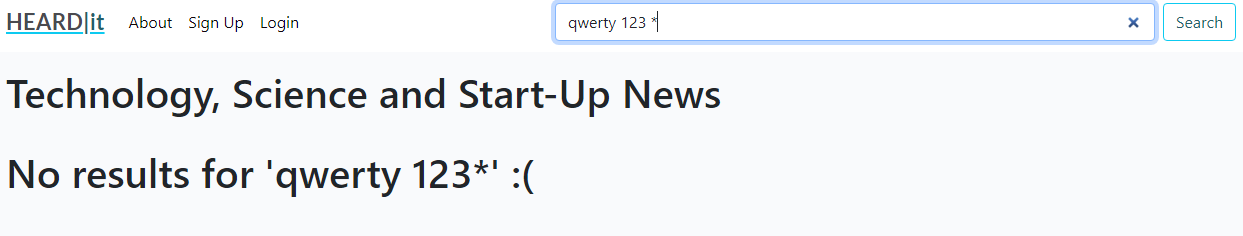
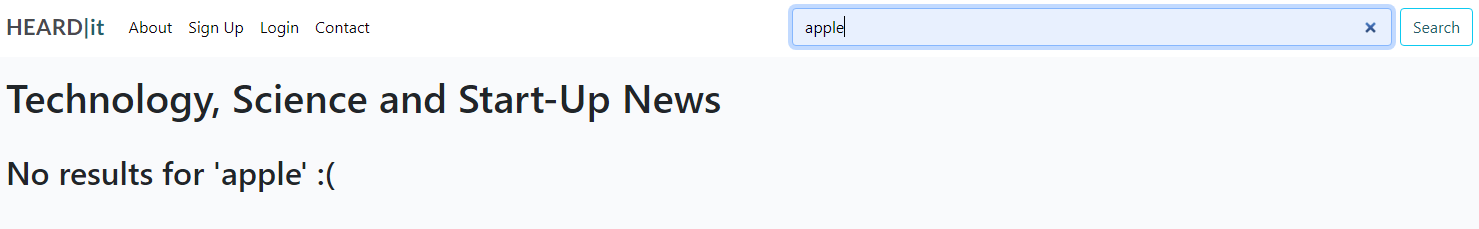
updated cloudinary video, all images on README to incl contact page etc

diff --git a/templates/index.html b/templates/index.html
@@ -13,11 +13,11 @@
                 <br />
                 {% if post_list|length < 1 %}
                 <div class="heading-font">
-                    <h1>No results for '{{ searched }}' :(</h1>
+                    <h2>No results for '{{ searched }}' :(</h2>
                 </div>
                 {% else%}
                 <div class="heading-font">
-                    <h1>You searched for '{{ searched }}':</h1>
+                    <h2>You searched for '{{ searched }}':</h2>
                 </div>
                 <br />
                 {% endif %}

diff --git a/templates/500.html b/templates/500.html
@@ -7,10 +7,10 @@
     <div class="col-md-8 mt-3 offset-md-2">
         <p>
             <br>
-            <h3>Ooops something went wrong.
+            <h3>500 - Internal Server Error :(
                 <br>
                 <br>
-                <strong>500 - Internal Server Error :(</strong>
+                <strong>Ooops something went wrong.</strong>
                 <br>
                 <br>
                 Try to refresh this page or feel free to contact us if the problem persists.</h3>

diff --git a/README.md b/README.md
@@ -11,7 +11,7 @@ HEARD|it is an Irish technology news website which encourages users to Create, R
 A deployed link to the website can be found [here](https://heard-it.herokuapp.com/)
 
 ### Video
-A video tutorial outlining some features can be viewed [here](https://res.cloudinary.com/dzyxqqpzh/video/upload/v1661179800/bandicam_2022-08-22_15-47-32-821_ch0xqw.mp4)
+A video tutorial outlining some features can be viewed [here](https://res.cloudinary.com/dzyxqqpzh/video/upload/v1661449979/New_Tab_-_Google_Chrome_2022-08-25_18-48-29_ptleon.mp4)
 
 ### QR Code
 
